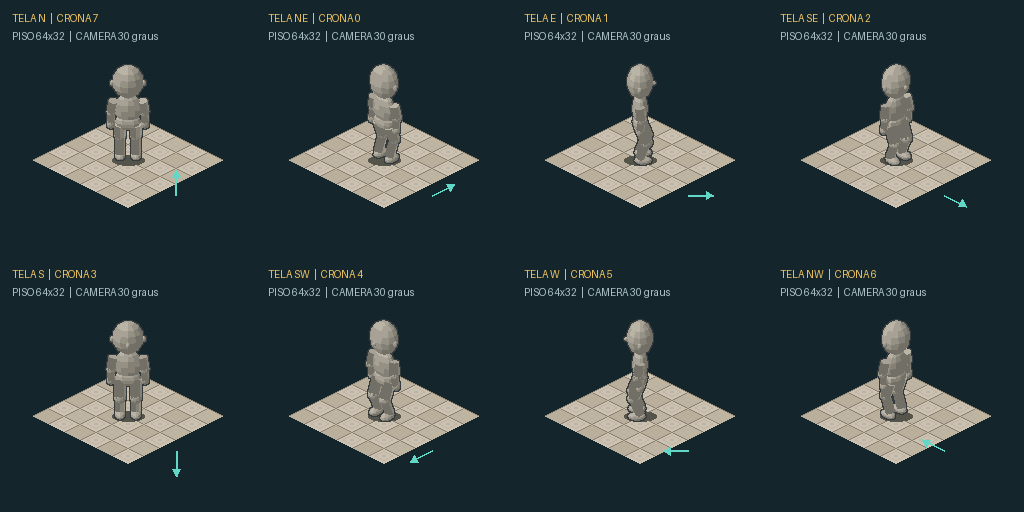
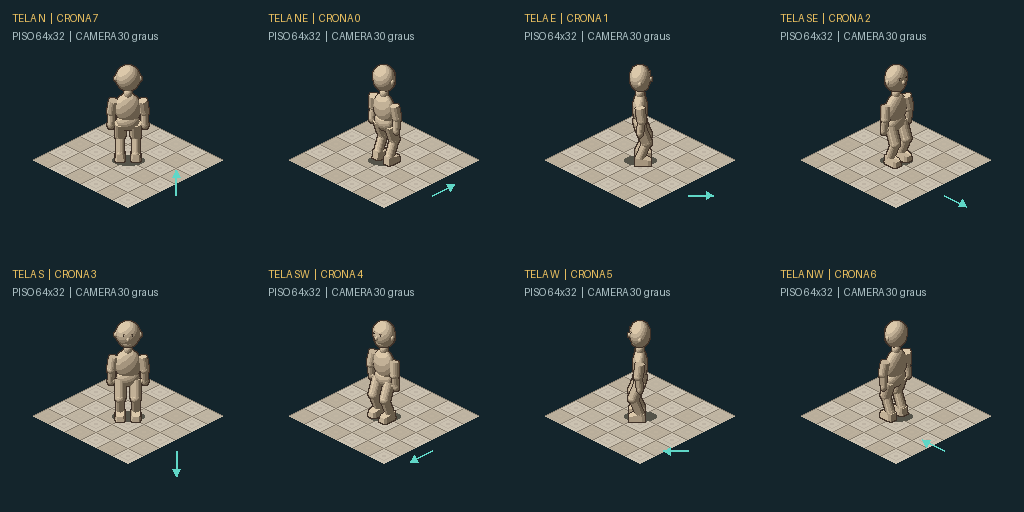
feat: refinar corpo-base pixel art com proporções, rosto e materiais v2

diff --git a/src/spriteforge/rig.py b/src/spriteforge/rig.py
@@ -19,6 +19,11 @@ from .crona import CELL, PIVOT, ELEVATION, METRES_PER_MODEL_UNIT, CRONA_COMMIT, 
 
 LIGHT = np.array([-0.45, 0.35, 0.82])
 LIGHT /= np.linalg.norm(LIGHT)
+INK = (62, 49, 40)
+# Cinco tons por cor de material; a luz continua fixa no mundo, sem glow.
+TONE_FACTORS = np.array([.48, .64, .79, .94, 1.06])
+HEAD_CENTER_Z = 55.4
+HEAD_RADII = (7.2, 6.1, 8.1)  # Topo continua z=63.5: mesma altura física do perfil CRONA.
 PARTS = ("body", "shirt", "trousers", "boots", "hair", "beard", "glasses", "scar")
 HEX_COLOR = re.compile(r"#[0-9a-fA-F]{6}\Z")
 
@@ -88,6 +93,11 @@ def pose(action, index):
 class Scene:
     def __init__(self):
         self.triangles = []
+        self.normals = []
+
+    def triangle(self, points, color, part, normals=None):
+        self.triangles.append((points, color, part))
+        self.normals.append(normals)
 
     def ellipsoid(self, center, radii, color, part="body", upper_only=False):
         center = np.array(center)
@@ -104,8 +114,11 @@ class Scene:
         for row in range(rings):
             for col in range(segments):
                 n = (col + 1) % segments
-                self.triangles.append(([points[row][col], points[row+1][col], points[row+1][n]], color, part))
-                self.triangles.append(([points[row][col], points[row+1][n], points[row][n]], color, part))
+                for vertices in ([points[row][col], points[row+1][col], points[row+1][n]],
+                                 [points[row][col], points[row+1][n], points[row][n]]):
+                    normals = (np.array(vertices)-center)/np.square(radii)
+                    normals /= np.linalg.norm(normals, axis=1)[:,None]
+                    self.triangle(vertices, color, part, normals)
 
     def bone(self, a, b, radius, color, part="body"):
         a, b = np.array(a), np.array(b)
@@ -119,72 +132,115 @@ class Scene:
                    for angle in np.linspace(0, math.tau, 8, endpoint=False)] for center in (a, b)]
         for i in range(8):
             n = (i + 1) % 8
-            self.triangles.append(([points[0][i], points[1][i], points[1][n]], color, part))
-            self.triangles.append(([points[0][i], points[1][n], points[0][n]], color, part))
+            for vertices in ([points[0][i], points[1][i], points[1][n]],
+                             [points[0][i], points[1][n], points[0][n]]):
+                normals = []
+                for vertex in vertices:
+                    offset = vertex-a
+                    normal = offset-axis*float(offset@axis)
+                    normals.append(normal/np.linalg.norm(normal))
+                self.triangle(vertices, color, part, normals)
         # Caps são achatadas; os volumes das articulações fazem a transição.
         for row, center in enumerate((a, b)):
             for i in range(8):
                 order = (i, (i+1) % 8) if row else ((i+1) % 8, i)
-                self.triangles.append(([center, points[row][order[0]], points[row][order[1]]], color, part))
+                self.triangle([center, points[row][order[0]], points[row][order[1]]], color, part)
+
+    def box(self, center, radii, color, part="body"):
+        center, radii = np.array(center), np.array(radii)
+        corners = [center+radii*np.array(signs) for signs in
+                   ((-1,-1,-1),(1,-1,-1),(1,1,-1),(-1,1,-1),
+                    (-1,-1,1),(1,-1,1),(1,1,1),(-1,1,1))]
+        for a,b,c,d in ((0,3,2,1),(4,5,6,7),(0,1,5,4),(1,2,6,5),(2,3,7,6),(3,0,4,7)):
+            self.triangle([corners[a],corners[b],corners[c]],color,part)
+            self.triangle([corners[a],corners[c],corners[d]],color,part)
+
+    def foot(self, center, radii, color, part="body"):
+        """Base plana, ponta baixa e quinas chanfradas: o pé não vira um bloco."""
+        center, radii=np.array(center),np.array(radii)
+        ring=np.array([(-.75,-1),(.75,-1),(1,-.6),(1,.65),(.75,1),(-.75,1),(-1,.65),(-1,-.6)])
+        bottom=[center+np.array([x*radii[0],y*radii[1],-radii[2]]) for x,y in ring]
+        top=[center+np.array([x*radii[0]*.88,y*radii[1]*.93,radii[2]*(.9-.6*max(0,y))]) for x,y in ring]
+        upper=center+np.array([0,0,radii[2]*.65])
+        lower=center+np.array([0,0,-radii[2]])
+        for i in range(8):
+            n=(i+1)%8
+            self.triangle([lower,bottom[n],bottom[i]],color,part)
+            self.triangle([upper,top[i],top[n]],color,part)
+            self.triangle([bottom[i],bottom[n],top[n]],color,part)
+            self.triangle([bottom[i],top[n],top[i]],color,part)
 
 
 def build_scene(recipe, current_pose):
     scene = Scene()
     joints, bob = current_pose["joints"], current_pose["bob"]
     skin = recipe["body_color"]
-    scene.ellipsoid((0, 0, 26 + bob), (7.5, 4.4, 5.5), skin)
-    scene.ellipsoid((0, 0, 35 + bob), (8.2, 4.6, 9.7), skin)
-    scene.ellipsoid((0, 0, 44 + bob), (2.8, 2.8, 3.4), skin)
-    scene.ellipsoid(joints["head"], (9.2, 7.8, 10.5), skin)
+    scene.ellipsoid((0, 0, 26 + bob), (6.8, 4.0, 5.5), skin)
+    scene.ellipsoid((0, 0, 35 + bob), (7.8, 4.3, 9.7), skin)
+    scene.ellipsoid((0, 0, 45 + bob), (2.5, 2.5, 3.4), skin)
+    scene.ellipsoid((0, 0, HEAD_CENTER_Z+bob), HEAD_RADII, skin)
+    scene.ellipsoid((0, .3, 50.8+bob), (5.0, 4.8, 3.4), skin)
     for sign in (-1, 1):
-        scene.ellipsoid((sign*9.1, 0, 52 + bob), (1.4, 1.5, 2), skin)
-    scene.ellipsoid((0, 7.7, 52 + bob), (1.25, 1.7, 1.5), skin)
+        scene.ellipsoid((sign*7.1, 0, 55+bob), (1.0, 1.2, 1.7), skin)
+        # Detalhes pertencem ao rosto em 3D: a profundidade os oculta nas costas.
+        scene.ellipsoid((sign*2.65, 5.7, 57.2+bob), (.55, .38, .62), "#453a32")
+        scene.bone((sign*1.9,5.65,58.3+bob),(sign*3.25,5.1,58.25+bob),.24,"#756351")
+    scene.ellipsoid((0, 6.0, 54.8+bob), (.95, 1.3, 1.35), skin)
+    scene.bone((-.9,5.03,52.1+bob),(.9,5.03,52.1+bob),.22,"#94705b")
     outfit = recipe.get("outfit") or {}
     for side in ("left", "right"):
         p = lambda joint: joints[side + "_" + joint]
-        scene.bone(p("hip"), p("knee"), 3.6, skin)
-        scene.bone(p("knee"), p("ankle"), 2.9, skin)
-        scene.ellipsoid(p("knee"), (3.6, 3.6, 3.6), skin)
+        scene.bone(p("hip"), p("knee"), 3.2, skin)
+        scene.bone(p("knee"), p("ankle"), 2.55, skin)
+        scene.ellipsoid(p("knee"), (3.2, 3.2, 3.2), skin)
         ankle = np.array(p("ankle"))
         foot = ankle + (0, 1.8, -1.6)
-        scene.ellipsoid(foot, (3.2, 5.2, 2.4), skin)
-        scene.bone(p("shoulder"), p("elbow"), 3.0, skin)
-        scene.bone(p("elbow"), p("wrist"), 2.3, skin)
-        scene.ellipsoid(p("elbow"), (3, 3, 3), skin)
-        scene.ellipsoid(p("wrist"), (2.6, 2.3, 3.2), skin)
+        scene.foot(foot, (2.8, 4.7, 2.4), skin)
+        scene.ellipsoid(ankle, (2.55,2.55,3.0), skin)
+        scene.bone(p("shoulder"), p("elbow"), 2.7, skin)
+        scene.bone(p("elbow"), p("wrist"), 2.0, skin)
+        scene.ellipsoid(p("elbow"), (2.7, 2.7, 2.7), skin)
+        scene.ellipsoid(np.array(p("wrist"))+(0,.1,-.6), (2.15, 1.85, 3.0), skin)
+        scene.ellipsoid(np.array(p("wrist"))+(1.6 if side=='left' else -1.6,1,-.4), (.85,.95,1.45), skin)
         if "shirt" in outfit:
             color = outfit["shirt"]
-            scene.bone(p("shoulder"), p("elbow"), 3.55, color, "shirt")
-            scene.bone(p("elbow"), p("wrist"), 2.85, color, "shirt")
-            scene.ellipsoid(p("elbow"), (3.5, 3.5, 3.5), color, "shirt")
+            scene.bone(p("shoulder"), p("elbow"), 3.15, color, "shirt")
+            cuff=np.array(p("wrist"))+(0,0,1.5)
+            scene.bone(p("elbow"), cuff, 2.5, color, "shirt")
+            scene.ellipsoid(p("elbow"), (3.15, 3.15, 3.15), color, "shirt")
         if "trousers" in outfit:
             color = outfit["trousers"]
-            scene.bone(p("hip"), p("knee"), 4.05, color, "trousers")
-            scene.bone(p("knee"), p("ankle"), 3.35, color, "trousers")
-            scene.ellipsoid(p("knee"), (4.05, 4.05, 4.05), color, "trousers")
+            scene.bone(p("hip"), p("knee"), 3.65, color, "trousers")
+            scene.bone(p("knee"), p("ankle"), 3.0, color, "trousers")
+            scene.ellipsoid(p("knee"), (3.65, 3.65, 3.65), color, "trousers")
         if "boots" in outfit:
-            scene.ellipsoid(foot, (3.7, 5.65, 2.8), outfit["boots"], "boots")
+            scene.foot(foot, (3.3, 5.15, 2.4), outfit["boots"], "boots")
             scene.ellipsoid(ankle + (0, 0, 1), (3.35, 3.35, 4.4), outfit["boots"], "boots")
+            scene.foot(foot+(0,0,-1.8),(3.35,5.2,.6),"#493c34","boots")
     if "trousers" in outfit:
-        scene.ellipsoid((0, 0, 25.5 + bob), (8, 4.9, 5.8), outfit["trousers"], "trousers")
+        scene.ellipsoid((0, 0, 25.5 + bob), (7.3, 4.5, 5.8), outfit["trousers"], "trousers")
     if "shirt" in outfit:
-        scene.ellipsoid((0, 0, 35 + bob), (8.8, 5.15, 10.1), outfit["shirt"], "shirt")
+        scene.ellipsoid((0, 0, 35 + bob), (8.35, 4.85, 10.1), outfit["shirt"], "shirt")
+        # Costura e botões são volumes da camisa; não são desenhados por cima das costas.
+        scene.bone((0,4.9,30+bob),(0,4.9,39+bob),.22,outfit["shirt"],"shirt")
+        for z in (33,37):
+            scene.ellipsoid((0,4.8,z+bob),(.35,.35,.35),"#ccbea5","shirt")
     if recipe.get("hair"):
-        scene.ellipsoid((0, -.4, 53 + bob), (9.8, 8.4, 11.1), recipe["hair"], "hair", upper_only=True)
+        scene.ellipsoid((0, -.25, HEAD_CENTER_Z+bob), (7.65, 6.55, 8.6), recipe["hair"], "hair", upper_only=True)
     if recipe.get("beard"):
-        scene.ellipsoid((0, 6.7, 47.5 + bob), (4.8, 2.1, 2.6), recipe["beard"], "beard")
+        scene.ellipsoid((0, 4.7, 50.5 + bob), (4.2, 1.7, 2.5), recipe["beard"], "beard")
     if recipe.get("glasses"):
         color = recipe["glasses"]
-        for x in (-3.5, 3.5):
-            for z in (52, 56):
-                scene.bone((x-2.5, 8, z+bob), (x+2.5, 8, z+bob), .55, color, "glasses")
-            for edge in (-2.5, 2.5):
-                scene.bone((x+edge, 8, 52+bob), (x+edge, 8, 56+bob), .55, color, "glasses")
-        scene.bone((-1, 8, 54+bob), (1, 8, 54+bob), .55, color, "glasses")
+        for x in (-2.65, 2.65):
+            for z in (55.8, 59):
+                scene.bone((x-1.9, 6.35, z+bob), (x+1.9, 6.35, z+bob), .4, color, "glasses")
+            for edge in (-1.9, 1.9):
+                scene.bone((x+edge, 6.35, 55.8+bob), (x+edge, 6.35, 59+bob), .4, color, "glasses")
+        scene.bone((-.75, 6.35, 57.4+bob), (.75, 6.35, 57.4+bob), .4, color, "glasses")
         for sign in (-1, 1):
-            scene.bone((sign*6, 8, 54+bob), (sign*9.5, 0, 54+bob), .5, color, "glasses")
+            scene.bone((sign*4.6, 6.35, 57.4+bob), (sign*7.55, 0, 57.4+bob), .38, color, "glasses")
     if recipe.get("scar"):
-        scene.bone((4.5, 7.3, 50+bob), (6, 6.6, 53+bob), .55, recipe["scar"], "scar")
+        scene.bone((3.6, 5.4, 53+bob), (4.7, 4.6, 55.5+bob), .4, recipe["scar"], "scar")
     return scene
 
 
@@ -199,8 +255,10 @@ def rasterize(scene, direction):
     depth = np.full(CELL[::-1], -np.inf)
     rgba = np.zeros((*CELL[::-1], 4), dtype=np.uint8)
     parts = np.zeros(CELL[::-1], dtype=np.uint8)
-    # Faces recebem iluminação fixa no mundo e quantização em cinco tons.
-    for local, color, part in scene.triangles:
+    material_palettes = {}
+    # Normais suaves evitam que a malha apareça como manchas triangulares no sprite.
+    # A saída continua quantizada: sem antialiasing, sem degradê entre os cinco tons.
+    for triangle_index, (local, color, part) in enumerate(scene.triangles):
         world = np.array(local) @ rotation.T
         normal = np.cross(world[1]-world[0], world[2]-world[0])
         length = np.linalg.norm(normal)
@@ -209,9 +267,10 @@ def rasterize(scene, direction):
         normal /= length
         # A reflexão da base local inverte o winding; usar orientação externa.
         normal *= -1
-        brightness = .62 + .38 * round(max(0, float(normal @ LIGHT)) * 4) / 4
-        rgb = np.array([int(color[i:i+2], 16) for i in (1, 3, 5)])
-        shade = np.clip(rgb * brightness, 0, 255).astype(np.uint8)
+        if color not in material_palettes:
+            rgb = np.array([int(color[i:i+2], 16) for i in (1, 3, 5)])
+            warm_shadow = np.array([7, 1, -5])
+            material_palettes[color] = np.clip(rgb*TONE_FACTORS[:,None]+warm_shadow*(1-TONE_FACTORS[:,None]),0,255).astype(np.uint8)
         projected = project_model(world)
         z = world[:, 1]*cos + world[:, 2]*sin
         low = np.floor(projected.min(axis=0)).astype(int)
@@ -230,14 +289,41 @@ def rasterize(scene, direction):
         w2 = 1-w0-w1
         sample_z = w0*z[0]+w1*z[1]+w2*z[2]
         area = np.s_[y0:y1+1, x0:x1+1]
-        visible = (w0 >= -1e-7) & (w1 >= -1e-7) & (w2 >= -1e-7) & (sample_z > depth[area])
+        part_id = PARTS.index(part)+1
+        closer = sample_z > depth[area]+1e-7
+        # A tampa de uma manga pode coincidir com a do braço. Nesse empate,
+        # a superfície da roupa cobre a pele, sem atravessar volumes mais próximos.
+        coplanar = np.isclose(sample_z,depth[area],atol=1e-7,rtol=0) & (part_id > parts[area])
+        visible = (w0 >= -1e-7) & (w1 >= -1e-7) & (w2 >= -1e-7) & (closer | coplanar)
         depth[area][visible] = sample_z[visible]
-        rgba[area][visible] = [*shade, 255]
-        parts[area][visible] = PARTS.index(part)+1
+        smooth = scene.normals[triangle_index]
+        if smooth is None:
+            lighting = np.full(w0.shape,max(0,float(normal@LIGHT)))
+        else:
+            normals = np.array(smooth)@rotation.T
+            interpolated = w0[...,None]*normals[0]+w1[...,None]*normals[1]+w2[...,None]*normals[2]
+            interpolated /= np.maximum(np.linalg.norm(interpolated,axis=-1)[...,None],1e-8)
+            lighting = np.maximum(0,interpolated@LIGHT)
+        tone = np.clip(np.floor(lighting*5).astype(int),0,4)
+        rgba[area][visible,:3] = material_palettes[color][tone[visible]]
+        rgba[area][visible,3] = 255
+        parts[area][visible] = part_id
+    # Contato entre volumes e bordas de materiais: um único pixel do lado mais escuro.
+    opaque = rgba[:,:,3] > 0
+    edges = np.zeros(opaque.shape,dtype=bool)
+    for dy,dx in ((0,1),(1,0),(0,-1),(-1,0)):
+        neighbor_alpha=np.roll(opaque,(dy,dx),(0,1))
+        neighbor_parts=np.roll(parts,(dy,dx),(0,1))
+        neighbor_depth=np.roll(depth,(dy,dx),(0,1))
+        depth_difference=np.zeros_like(depth)
+        shared=opaque & neighbor_alpha
+        np.subtract(neighbor_depth,depth,out=depth_difference,where=shared)
+        edges |= shared & (((neighbor_parts!=parts)&(depth_difference>=0)) | (depth_difference>3.2))
+    rgba[edges,:3]=INK
     image = Image.fromarray(rgba)
     silhouette = image.getchannel("A")
     expanded = silhouette.filter(ImageFilter.MaxFilter(3))
-    outline = Image.new("RGBA", CELL, "#353b3d")
+    outline = Image.new("RGBA", CELL, (*INK,255))
     outline.putalpha(expanded)
     outline.alpha_composite(image)
     return outline, parts
@@ -282,7 +368,8 @@ def generate_rig(recipe_path: Path, output: Path):
     write_json(root / "manifest.json", {"version": 1, "id": recipe["id"], "name": recipe["name"],
                "cell": list(CELL), "pivot": list(PIVOT), "animations": animations})
     write_json(root / "appearance.json", recipe)
-    write_json(root / "rig.json", {"version": 1, "base": "humanoid-v1-study", "elevation_degrees": 30,
+    write_json(root / "rig.json", {"version": 1, "base": "humanoid-v2-study", "elevation_degrees": 30,
+               "art_style": "cozy-pixel-v2", "material_tones": 5, "outline_pixels": 1,
                "profile": "crona-iso-v1", "crona_commit": CRONA_COMMIT,
                "engine_to_sheet": list(ENGINE_TO_SHEET), "metres_per_model_unit": METRES_PER_MODEL_UNIT,
                "part_ids": {str(i+1): name for i, name in enumerate(PARTS)},

diff --git a/tests/test_rig.py b/tests/test_rig.py
@@ -5,7 +5,7 @@ from pathlib import Path
 import numpy as np
 
 from spriteforge.core import DIRECTIONS, ValidationError
-from spriteforge.rig import CELL, PARTS, build_scene, pose, render, validate_recipe
+from spriteforge.rig import CELL, PARTS, Scene, build_scene, pose, render, rasterize, validate_recipe
 
 
 class RigTests(unittest.TestCase):
@@ -66,6 +66,23 @@ class RigTests(unittest.TestCase):
         second, mask2, _ = render(self.dressed, 'SE', 'walk', 2)
         self.assertEqual(first.tobytes(), second.tobytes())
         self.assertTrue(np.array_equal(mask1, mask2))
+
+    def test_coplanar_clothes_cover_skin_without_overriding_nearer_geometry(self):
+        scene = Scene()
+        triangle = [[-8,0,30],[8,0,30],[0,0,45]]
+        scene.triangle(triangle,'#ccbbaa','body')
+        scene.triangle(triangle,'#527e7c','shirt')
+        _,parts=rasterize(scene,'S')
+        self.assertGreater(np.count_nonzero(parts==PARTS.index('shirt')+1),0)
+        self.assertEqual(np.count_nonzero(parts==PARTS.index('body')+1),0)
+        nearer=[[x,y+2,z] for x,y,z in triangle]
+        scene.triangle(nearer,'#ccbbaa','body')
+        _,parts=rasterize(scene,'S')
+        self.assertGreater(np.count_nonzero(parts==PARTS.index('body')+1),0)
+
+    def test_refined_head_preserves_calibrated_physical_height(self):
+        scene=build_scene(self.base,pose('idle',0))
+        self.assertAlmostEqual(max(vertex[2] for vertices,_,_ in scene.triangles for vertex in vertices),63.5)
 
     def test_invalid_recipe_is_rejected(self):
         for change in ({'body_color': 'invalid'}, {'hair': True}, {'unknown': 'anything'}, {'outfit': {'cape': '#aabbcc'}}):

diff --git a/scripts/render_body_review.py b/scripts/render_body_review.py
@@ -1,0 +1,29 @@
+"""Compara o corpo-base v1 do histórico com os frames atuais na mesma câmera."""
+import argparse
+import importlib.util
+import json
+from pathlib import Path
+from PIL import Image, ImageDraw, ImageFont
+
+parser=argparse.ArgumentParser()
+parser.add_argument('--baseline-source',type=Path,required=True)
+parser.add_argument('--baseline-recipe',type=Path,required=True)
+parser.add_argument('--input',type=Path,default=Path('demo-input'))
+parser.add_argument('--output',type=Path,default=Path('previews/humanoid-before-after.png'))
+args=parser.parse_args()
+spec=importlib.util.spec_from_file_location('spriteforge._baseline_rig',args.baseline_source)
+baseline=importlib.util.module_from_spec(spec);spec.loader.exec_module(baseline)
+recipe=json.loads(args.baseline_recipe.read_text(encoding='utf-8'))
+canvas=Image.new('RGB',(960,600),'#d0d0c7')
+draw=ImageDraw.Draw(canvas);font=ImageFont.load_default(size=16)
+for n,direction in enumerate(('S','SE','E')):
+    before,_,_=baseline.render(recipe,direction,'idle',0)
+    with Image.open(args.input/'humanoid-base/frames/idle'/direction/'00.png') as source:
+        after=source.convert('RGBA')
+    for row,image in enumerate((before,after)):
+        x=n*320+32;y=row*300+40
+        image=image.resize((256,256),Image.Resampling.NEAREST)
+        canvas.paste(image,(x,y),image)
+        draw.text((n*320+16,row*300+12),('ANTERIOR' if row==0 else 'CORPO REFINADO')+' / '+direction,fill='#403b33',font=font)
+args.output.parent.mkdir(parents=True,exist_ok=True)
+canvas.save(args.output)

diff --git a/docs/modular-body.md b/docs/modular-body.md
@@ -1,6 +1,18 @@
 # Corpo-base e aparência
 
-O primeiro corpo-base é um manequim neutro, careca, sem barba, roupa ou marcas. Tem volume, proporção compacta e câmera elevada de 30°. O canvas é 128×128, calibrado pela projeção e escala do [CRONA](crona-integration.md). É um **estudo para aprovação visual**, não um personagem final.
+O corpo-base refinado v2 é um manequim neutro, careca, sem barba, roupa ou marcas. Tem volume, proporção compacta e câmera elevada de 30°. O canvas é 128×128, calibrado pela projeção e escala do [CRONA](crona-integration.md). É um **estudo para aprovação visual**, não um personagem final.
+
+## Revisão visual v2
+
+A cabeça foi reduzida de 18,4 para 14,4 unidades de largura e seu centro visual subiu, mantendo o topo do corpo em z=63,5: a escala física de 1,80 m continua a mesma. Tronco e membros ficaram mais estreitos. Mãos têm polegar definido; pés têm base plana, ponta baixa e quinas chanfradas. Olhos, nariz, sobrancelhas e boca pertencem à geometria do rosto e desaparecem atrás da cabeça nos ângulos traseiros.
+
+O sombreamento usa normais interpoladas antes de quantizar a luz em cinco tons por cor de material. Assim, as faces triangulares da malha deixam de produzir manchas separadas. Contornos externos e encontros de materiais usam uma tinta quente de um pixel. A paleta do corpo e a roupa de teste foram ajustadas para marfim, verde discreto, azul escuro e couro, próximos dos materiais da cozinha. A luz é fixa e consistente, sem glow ou vinheta.
+
+Os pontos das poses e a câmera continuam iguais. A superfície visual da cabeça tem um deslocamento fixo em relação à articulação; cabelo, barba, óculos e cicatriz foram reposicionados para esse formato. Empates de profundidade entre pele e tampas de mangas são resolvidos em favor da roupa, sem sobrepor objetos mais próximos.
+
+[Antes e depois](../previews/humanoid-before-after.png) · [Oito direções](../previews/humanoid-base.png) · [Caminhada e aparência de teste](../previews/humanoid-comparison.gif) · [No piso do CRONA](../previews/crona-isometric.png).
+
+O registro `rig.json` identifica o corpo como `humanoid-v2-study`. Esta revisão melhora o estudo procedural; a identidade e as peças específicas do Alosi ainda precisam ser produzidas.
 
 ## Como vestir o mesmo corpo
 
@@ -44,6 +56,8 @@ A caminhada usa seis poses e 600 ms por loop. A perna de apoio passa para trás 
 `rig.json` registra articulações, apoio de cada pé e o deslocamento nominal: 22 unidades do modelo por loop (cerca de 0,624 m no perfil CRONA). A exportação CRONA traduz isso para `casasPorCiclo`. A sincronização precisa ser conferida com o token em movimento no jogo; a ferramenta não prova ausência de deslizamento em uma sessão real.
 
 `parts/` contém máscaras com IDs por parte visível. Elas ajudam a conferir ocultação. Não são camadas completas que restauram automaticamente as superfícies escondidas; para tirar uma roupa, regenere o sprite com esse slot desativado.
+
+Na revisão v2, a checagem heurística do último pixel sinaliza dois frames do corpo-base e quatro da roupa de teste: as pontas dos pés avançam 11–12 px em relação ao centro da célula durante a passada. Os PNGs mantêm margem e o ponto físico de apoio continua registrado nas poses; não deslocamos ou achatamos os frames para apagar esse aviso. A relação entre passada e movimento do token ainda precisa de conferência no jogo.
 
 ## Próxima aprovação
 

diff --git a/README.md b/README.md
@@ -8,7 +8,7 @@ Nossa oficina de pixel art para o tabuleiro da Equipe Hydra: personagens, NPCs, 
 
 Prévia produzida pelo renderizador que já existe no CRONA. [Ver as nove peças separadas](previews/cozinha-skins-moveis.png) · [Como gerar as skins e consultar a fila](docs/skins.md) · [Contrato e instalação para o Claude](docs/handoff-claude-skins.md) · [Actions → CRONA Skins](https://github.com/FelipeSiqueiraDev/SpriteForge/actions/workflows/skins.yml).
 
-**Corpo-base modular em estudo:** manequim neutro em oito direções, com idle e caminhada. Podemos vestir o mesmo corpo com peças simples sem mudar suas poses. Os quatro protagonistas ainda não foram produzidos; o Alosi continua sendo o piloto previsto após aprovação do corpo-base.
+**Corpo-base refinado v2:** cabeça menor, mãos e pés mais definidos, rosto básico e blocos de sombra sem as manchas triangulares da primeira malha. Manequim neutro em oito direções, com idle e caminhada; as peças seguem as mesmas poses. [Comparar antes e depois](previews/humanoid-before-after.png). Os quatro protagonistas ainda não foram produzidos; o Alosi continua sendo o piloto previsto após aprovação visual do corpo-base.
 
 ![Corpo-base neutro em oito direções](previews/humanoid-base.png)
 
